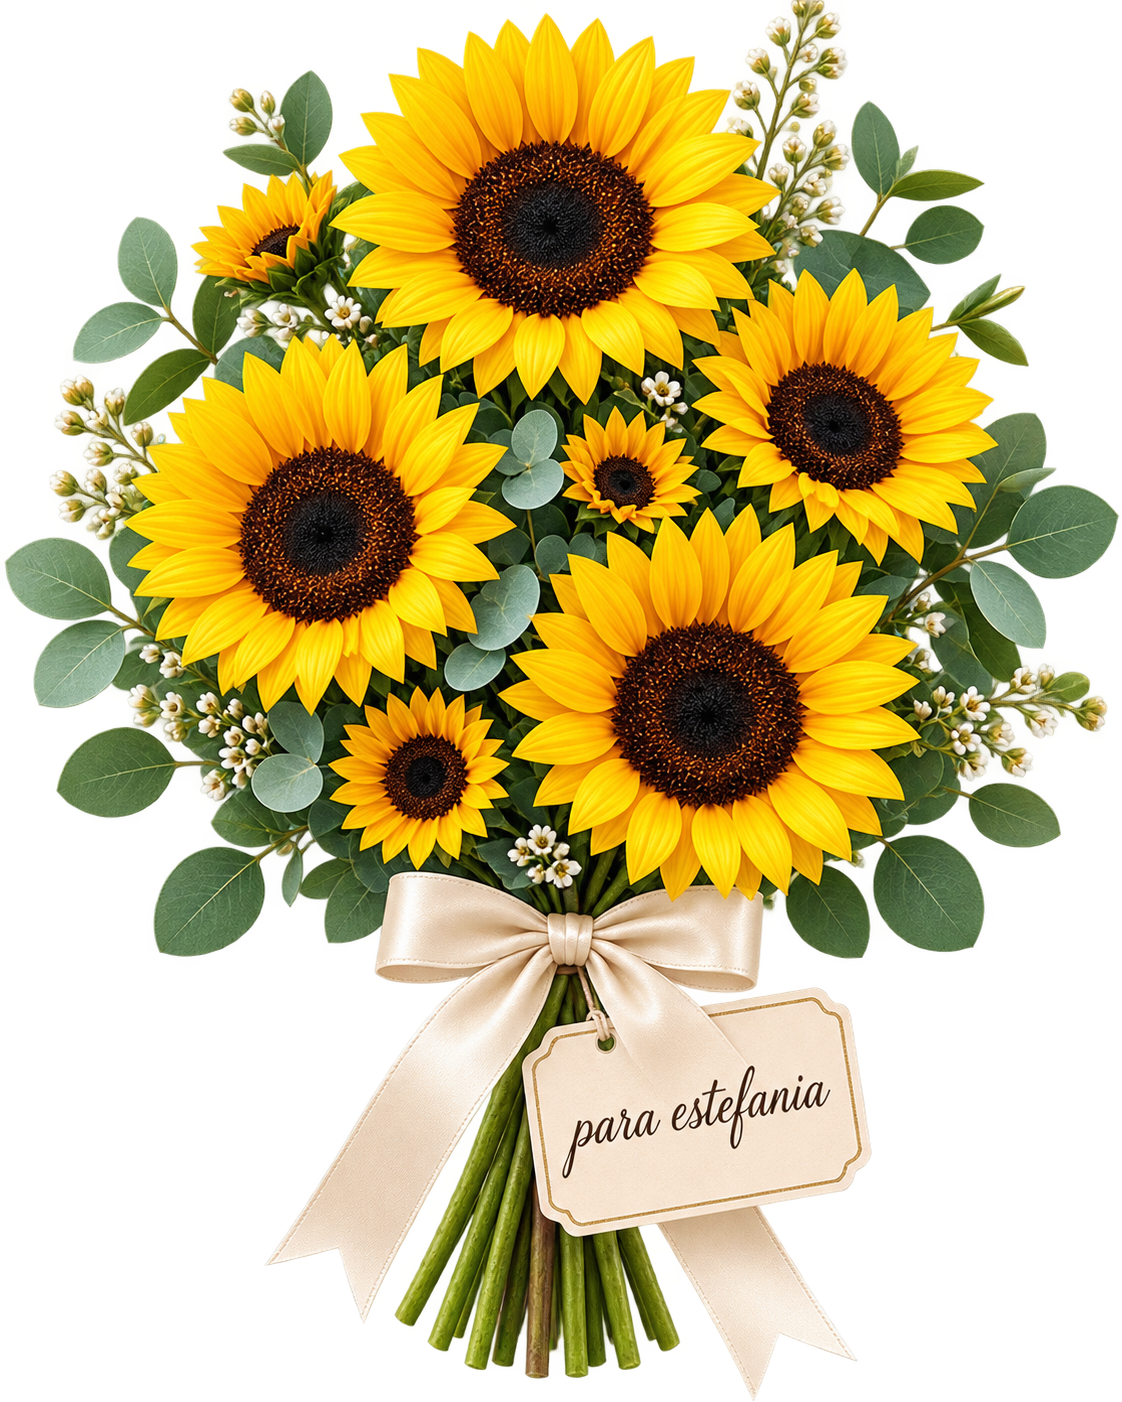
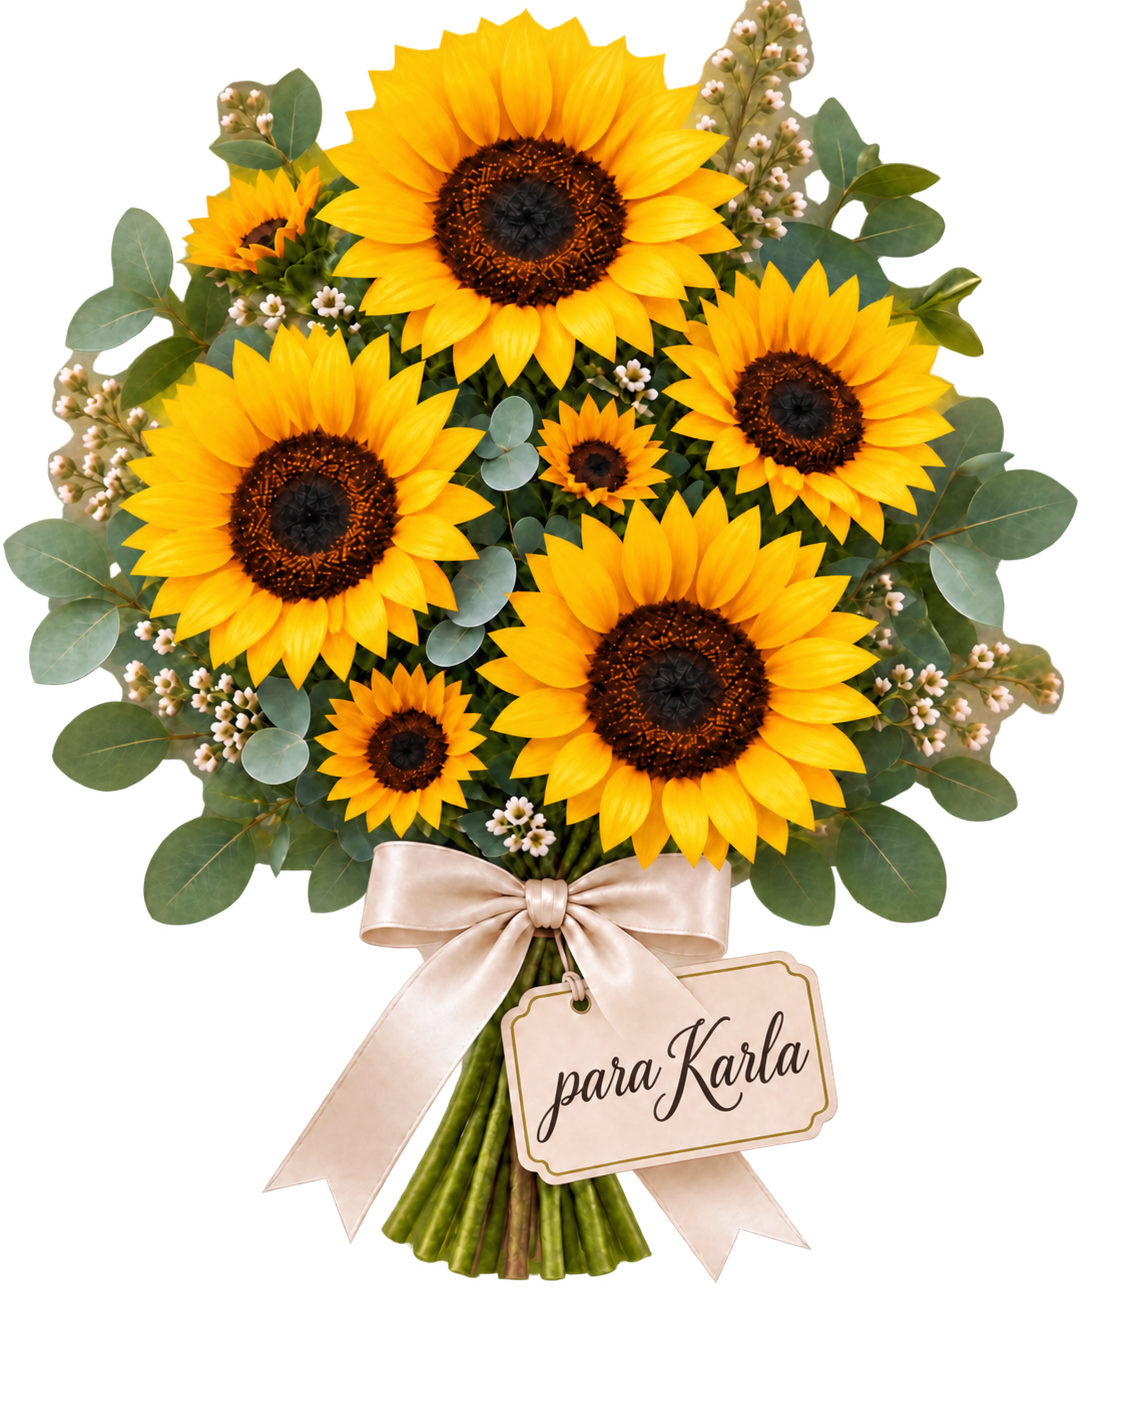
subido el de karla

diff --git a/flores-amarillas/karla/js/config.js b/flores-amarillas/karla/js/config.js
@@ -1,19 +1,24 @@
 /* Para crear un nuevo pedido, edita solamente los valores de este archivo. */
 const FLOWERS_CONFIG = {
-  recipient: "Tanya",
-  sender: "Carlos",
-  memoryDate: "21 · 06 · 2025",
-  relationshipStart: "2025-06-21",
+  recipient: "Karla",
+  sender: "Arnulfo",
+  memoryDate: "21 · 09 · 2026",
+  relationshipStart: "2025-03-12",
   photoStripBack: "No importa cuántas fotos tengamos; siempre voy a querer guardar un momento más contigo.",
   dedication: "Hoy quiero regalarte flores amarillas porque haces que mis días sean más bonitos.",
   gardenMessage: "Estas flores son apenas un reflejo de toda la alegría que traes a mi vida. Gracias por hacer florecer mis días con tu presencia.",
-  whatsappNumber: "", // Código de país + número, sin espacios. Ejemplo: 5215512345678
+  whatsappNumber: "523320652572", // Código de país + número, sin espacios. Ejemplo: 5215512345678
   gifts: [
     { title: "Una cita sorpresa", description: "Tú eliges el día, yo preparo todo.", whatsapp: "Hola, vengo a canjear mi cupón por una cita sorpresa 🌻💛" },
     { title: "Tu comida favorita", description: "Sin preguntas y con postre incluido.", whatsapp: "Hola, vengo a canjear mi cupón por mi comida favorita 🌻💛" },
     { title: "Una tarde juntos", description: "Película, abrazos y todo lo que tú elijas.", whatsapp: "Hola, vengo a canjear mi cupón por una tarde juntos 🌻💛" }
   ],
-  letter: `A veces las palabras se quedan cortas, pero quería recordarte lo especial que eres para mí. Gracias por tu forma de iluminar los días sencillos, por cada sonrisa y por todos esos momentos que guardo con tanto cariño.\n\nQue estas flores sean una pequeña promesa: incluso en los días grises, siempre habrá un poquito de primavera esperándote.`,
+  letter: `Feliz 21 de marzo.
+  No soy muy bueno escribiendo cartas, pero quería hacer el intento porque hoy es un día para decir cosas que a veces uno no dice.
+  Me gusta lo que tenemos. Me gusta que podamos hablar de cualquier cosa, que me entiendas sin que tenga que explicar mucho, y que estés ahí cuando te necesito. Eres una de esas personas que hacen que todo sea más fácil.
+  No sé bien qué nombre tiene esto que somos, pero sé que me gusta. Me gusta compartir contigo, me gusta tu forma de ser y me gusta cómo me haces sentir.
+  No te traje flores porque no alcancé, pero esta carta es mi versión de una flor amarilla: algo sencillo, hecho para ti, que espero te saque una sonrisa.
+  Gracias por estar. Feliz día.`,
   reasons: [
     "Porque haces más bonitos mis días.",
     "Porque tu sonrisa siempre consigue alegrarme.",
@@ -30,10 +35,10 @@ const FLOWERS_CONFIG = {
     "Mi pensamiento bonito", "Tu corazón", "Mi motivo para sonreír", "Juntos", "Eres especial"
   ],
   photos: [
-    { src: "assets/photos/pareja-1.jpg", text: "Donde la risa se vuelve nuestro lugar favorito.", alt: "Estefanía y Obed compartiendo un momento juntos por la noche" },
-    { src: "assets/photos/pareja-2.jpg", text: "Uno de esos instantes que quisiera guardar para siempre.", alt: "Estefanía y Obed posando juntos" },
-    { src: "assets/photos/pareja-3.jpg", text: "Contigo, hasta el mundo parece detenerse.", alt: "Estefanía y Obed junto a un lago" },
-    { src: "assets/photos/pareja-4.jpg", text: "Y todavía nos quedan muchos caminos por recorrer.", alt: "Estefanía y Obed paseando juntos en un jardín" }
+    { src: "assets/photos/pareja-1.jpeg", text: "Donde la risa se vuelve nuestro lugar favorito.", alt: "Posando en la graduación" },
+    { src: "assets/photos/pareja-2.jpeg", text: "Uno de esos instantes que quisiera guardar para siempre.", alt: "Posando" },
+    { src: "assets/photos/pareja-3.jpeg", text: "Contigo, hasta el mundo parece detenerse.", alt: "Karla sonriendo" },
+    { src: "assets/photos/pareja-4.jpeg", text: "Y todavía nos quedan muchos caminos por recorrer.", alt: "Karla y arnulfo posando juntos" }
     // Sustituye estas rutas por las fotografías del pedido cuando las recibas.
   ],
   song: "assets/music/flores.mp3?v=2",
@@ -47,3 +52,4 @@ const FLOWERS_CONFIG = {
     sage: "#7c8760"
   }
 };
+t

diff --git a/flores-amarillas/karla/index.html b/flores-amarillas/karla/index.html
@@ -10,17 +10,17 @@
   <meta property="og:locale" content="es_MX">
   <meta property="og:url" content="https://rotfflores.github.io/flores-amarillas-estefania-obed/">
   <meta property="og:title" content="Tienes flores amarillas">
-  <meta property="og:description" content="Un regalo especial de flores amarillas para Estefanía.">
-  <meta property="og:image" content="https://rotfflores.github.io/flores-amarillas-estefania-obed/assets/images/vista-whatsapp.png">
-  <meta property="og:image:secure_url" content="https://rotfflores.github.io/flores-amarillas-estefania-obed/assets/images/vista-whatsapp.png">
+  <meta property="og:description" content="Un regalo especial de flores amarillas para Karla.">
+  <meta property="og:image" content="https://rotfstudio.com/flores-amarillas/karla/assets/images/vista-whatsapp.png">
+  <meta property="og:image:secure_url" content="https://rotfstudio.com/flores-amarillas/karla/assets/images/vista-whatsapp.png">
   <meta property="og:image:type" content="image/png">
   <meta property="og:image:width" content="1707">
   <meta property="og:image:height" content="907">
-  <meta property="og:image:alt" content="Ramo de girasoles con el mensaje Tienes flores amarillas para Estefanía">
+  <meta property="og:image:alt" content="Ramo de girasoles con el mensaje Tienes flores amarillas para Karla">
   <meta name="twitter:card" content="summary_large_image">
   <meta name="twitter:title" content="Tienes flores amarillas">
-  <meta name="twitter:description" content="Un regalo especial de flores amarillas para Estefanía.">
-  <meta name="twitter:image" content="https://rotfflores.github.io/flores-amarillas-estefania-obed/assets/images/vista-whatsapp.png">
+  <meta name="twitter:description" content="Un regalo especial de flores amarillas para Karla.">
+  <meta name="twitter:image" content="https://rotfstudio.com/flores-amarillas/karla/assets/images/vista-whatsapp.png">
   <title>Flores amarillas para ti</title>
   <link rel="icon" href="assets/images/icono-flores.png" type="image/png">
   <link rel="preload" as="image" href="assets/images/ramo-estefania.png" fetchpriority="high">
